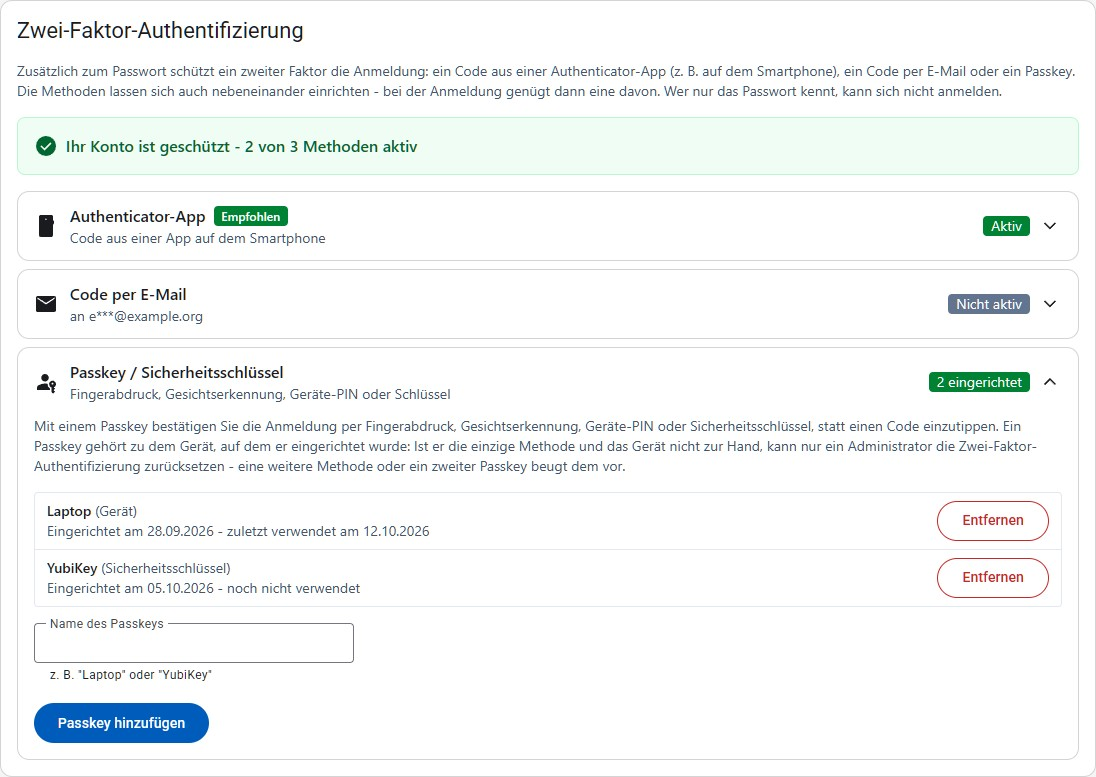
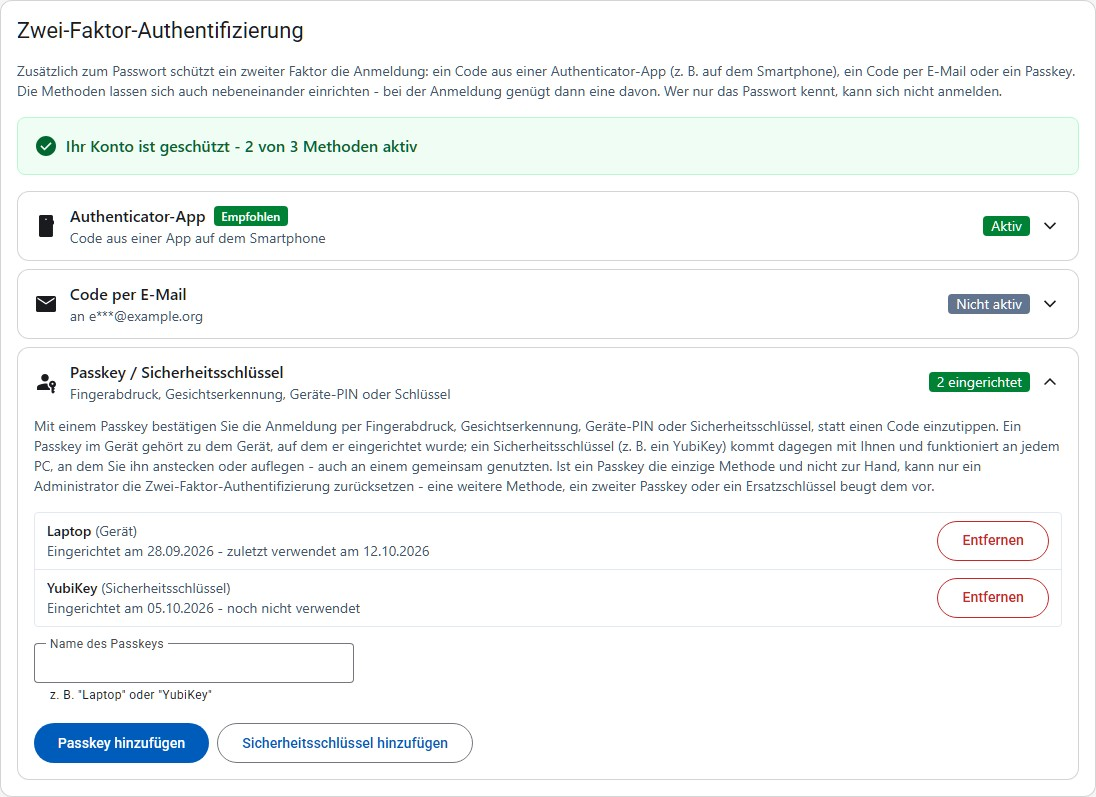
feat(auth): add a security key directly from the two-factor page
A "Sicherheitsschlüssel hinzufügen" button asks the browser for a key over
USB or NFC (WebAuthn hints plus a cross-platform attachment) instead of the
device's own passkey or a phone first. The passkey intro and user guide no
longer say a passkey is unsuitable for shared PCs - a security key is exactly
the one that works there - and recommend a spare key.

Refs #3862

diff --git a/frontend/src/main/webapp/src/app/modules/user/components/user-mfa/user-mfa.component.html b/frontend/src/main/webapp/src/app/modules/user/components/user-mfa/user-mfa.component.html
@@ -251,10 +251,11 @@
                testid="mfaRowPanel-passkey" [hidden]="!isExpanded('passkey')">
             <p class="text-sm text-slate-600 mb-4" testid="mfaPasskeyIntro">
               Mit einem Passkey bestätigen Sie die Anmeldung per Fingerabdruck, Gesichtserkennung, Geräte-PIN oder
-              Sicherheitsschlüssel, statt einen Code einzutippen. Ein Passkey gehört zu dem Gerät, auf dem er
-              eingerichtet wurde: Ist er die einzige Methode und das Gerät nicht zur Hand, kann nur ein Administrator
-              die Zwei-Faktor-Authentifizierung zurücksetzen - eine weitere Methode oder ein zweiter Passkey beugt dem
-              vor.
+              Sicherheitsschlüssel, statt einen Code einzutippen. Ein Passkey im Gerät gehört zu dem Gerät, auf dem er
+              eingerichtet wurde; ein Sicherheitsschlüssel (z. B. ein YubiKey) kommt dagegen mit Ihnen und funktioniert
+              an jedem PC, an dem Sie ihn anstecken oder auflegen - auch an einem gemeinsam genutzten. Ist ein Passkey die
+              einzige Methode und nicht zur Hand, kann nur ein Administrator die Zwei-Faktor-Authentifizierung
+              zurücksetzen - eine weitere Methode, ein zweiter Passkey oder ein Ersatzschlüssel beugt dem vor.
             </p>
 
             @if (passkeys().length > 0) {
@@ -292,9 +293,9 @@
                 Dieser Browser unterstützt keine Passkeys.
               </p>
             } @else {
-              <form (submit)="addPasskey($event)" novalidate class="flex flex-col gap-2 max-w-xs">
+              <form (submit)="addPasskey($event)" novalidate class="flex flex-col gap-2">
                 <!-- the hint sits below the field's own box, so the field keeps its distance to the next one itself -->
-                <mat-form-field class="mb-3">
+                <mat-form-field class="mb-3 max-w-xs">
                   <mat-label>Name des Passkeys</mat-label>
                   <input [formField]="setupForm.passkeyName" matInput testid="mfaPasskeyName" type="text" autocomplete="off">
                   <mat-hint>z. B. "Laptop" oder "YubiKey"</mat-hint>
@@ -302,9 +303,13 @@
                     <mat-error>{{ message }}</mat-error>
                   }
                 </mat-form-field>
-                <div>
+                <div class="flex flex-wrap gap-2">
                   <button testid="mfaPasskeyAddButton" matButton="filled" type="submit" [disabled]="working()">
                     Passkey hinzufügen
+                  </button>
+                  <button testid="mfaSecurityKeyAddButton" matButton="outlined" type="button" [disabled]="working()"
+                          (click)="addPasskey($event, true)">
+                    Sicherheitsschlüssel hinzufügen
                   </button>
                 </div>
               </form>

diff --git a/frontend/src/main/webapp/src/app/modules/user/components/user-mfa/user-mfa.component.ts b/frontend/src/main/webapp/src/app/modules/user/components/user-mfa/user-mfa.component.ts
@@ -158,8 +158,9 @@ export class UserMfaComponent {
         + 'Administrator die Zwei-Faktor-Authentifizierung zurücksetzen. Eine zweite Methode wird empfohlen.';
     }
     return this.passkeys().length === 1
-      ? 'Nur ein Passkey ist eingerichtet - ist das Gerät nicht zur Hand, kann nur ein Administrator die '
-      + 'Zwei-Faktor-Authentifizierung zurücksetzen. Ein zweiter Passkey oder eine weitere Methode wird empfohlen.'
+      ? 'Nur ein Passkey ist eingerichtet - ist er nicht zur Hand, kann nur ein Administrator die '
+      + 'Zwei-Faktor-Authentifizierung zurücksetzen. Ein zweiter Passkey (etwa ein Ersatzschlüssel) oder eine weitere '
+      + 'Methode wird empfohlen.'
       : null;
   });
 
@@ -299,9 +300,10 @@ export class UserMfaComponent {
   /**
    * Adds a passkey: the backend hands out the options, the browser lets the device create the key, and the backend
    * stores it once the proof of an existing method checks out. A prompt the user dismisses is no error of the
-   * application, so it is told apart from a refusal by the backend.
+   * application, so it is told apart from a refusal by the backend. With `securityKey`, the browser goes straight to
+   * a key plugged in or held against the device (see `PasskeyService.create`).
    */
-  addPasskey(event: Event) {
+  addPasskey(event: Event, securityKey = false) {
     event.preventDefault();
     if (!this.validate('passkeyName')) {
       return;
@@ -309,7 +311,7 @@ export class UserMfaComponent {
     const name = this.formModel().passkeyName.trim();
     return this.change('Passkey hinzufügen', 'Hinzufügen', async proof => {
       const {options} = await firstValueFrom(this.mfaApiService.setupPasskey(SUPPRESS_ERROR_TOAST_CONTEXT));
-      const credential = await this.passkeyService.create(options);
+      const credential = await this.passkeyService.create(options, securityKey);
       await firstValueFrom(this.mfaApiService.enablePasskey(credential, name, proof, SUPPRESS_ERROR_TOAST_CONTEXT));
       this.toastr.success('Passkey hinzugefügt!');
     }, {

diff --git a/frontend/src/main/webapp/src/app/common/security/passkey.service.ts b/frontend/src/main/webapp/src/app/common/security/passkey.service.ts
@@ -17,9 +17,17 @@ export class PasskeyService {
       && typeof PublicKeyCredential.parseRequestOptionsFromJSON === 'function';
   }
 
-  /** Creates a passkey for the registration options; rejects when the user cancels or the authenticator refuses. */
-  async create(options: PasskeyOptions): Promise<PasskeyCredential> {
-    const publicKey = PublicKeyCredential.parseCreationOptionsFromJSON(options as unknown as PublicKeyCredentialCreationOptionsJSON);
+  /**
+   * Creates a passkey for the registration options; rejects when the user cancels or the authenticator refuses.
+   *
+   * With `securityKey`, the browser is asked to go straight to a key plugged in or held against the device instead of
+   * offering the device's own passkey or a phone first: `hints` for the browsers that read it (WebAuthn level 3), and
+   * a cross-platform attachment for the others. Neither is something the backend checks - the passkey it gets is an
+   * ordinary one, told apart afterwards only by the transports it reports.
+   */
+  async create(options: PasskeyOptions, securityKey = false): Promise<PasskeyCredential> {
+    const json = securityKey ? withSecurityKeyPreference(options) : options;
+    const publicKey = PublicKeyCredential.parseCreationOptionsFromJSON(json as unknown as PublicKeyCredentialCreationOptionsJSON);
     return this.toJson(await navigator.credentials.create({publicKey}));
   }
 
@@ -35,6 +43,15 @@ export class PasskeyService {
     }
     return (credential as PublicKeyCredential).toJSON();
   }
+}
+
+function withSecurityKeyPreference(options: PasskeyOptions): PasskeyOptions {
+  const authenticatorSelection = (options['authenticatorSelection'] ?? {}) as Record<string, unknown>;
+  return {
+    ...options,
+    hints: ['security-key'],
+    authenticatorSelection: {...authenticatorSelection, authenticatorAttachment: 'cross-platform'}
+  };
 }
 
 /** WebAuthn options in their JSON form, as the backend sends them - opaque to everything but the browser. */

diff --git a/frontend/src/main/webapp/cypress/e2e/mfa.cy.ts b/frontend/src/main/webapp/cypress/e2e/mfa.cy.ts
@@ -803,6 +803,33 @@ describe('Two-factor authentication', () => {
       });
     });
 
+    it('a security key is added from its own button and listed as one', () => {
+      // a key plugged in over USB, next to the one built into the device - the button has to pick this one
+      devTools('WebAuthn.addVirtualAuthenticator', {
+        options: {
+          protocol: 'ctap2',
+          transport: 'usb',
+          hasResidentKey: false,
+          hasUserVerification: true,
+          isUserVerified: true,
+          automaticPresenceSimulation: true
+        }
+      });
+
+      createUser().then(user => {
+        cy.login(user.username, user.password);
+        cy.visit('/konto/zwei-faktor');
+        openRow('passkey');
+        cy.byTestId('mfaPasskeyName').type('YubiKey');
+        cy.byTestId('mfaSecurityKeyAddButton').click();
+        cy.get('.toast-message').should('be.visible').and('contain.text', 'Passkey hinzugefügt');
+
+        cy.byTestId('mfaPasskeyItem').should('contain.text', 'YubiKey');
+        cy.byTestId('mfaPasskeyKind').should('contain.text', '(Sicherheitsschlüssel)');
+        cy.checkAccessibility('main');
+      });
+    });
+
     it('the code still completes the login of a user who has a passkey', () => {
       userWithEmailMethod().then(user => {
         cy.visit('/konto/zwei-faktor');

diff --git a/frontend/src/main/webapp/src/app/modules/user/components/user-mfa/user-mfa.component.spec.ts b/frontend/src/main/webapp/src/app/modules/user/components/user-mfa/user-mfa.component.spec.ts
@@ -480,7 +480,19 @@ describe('UserMfaComponent', () => {
 
       expect(dialog.open).not.toHaveBeenCalled();
       expect(mfaApiService.enablePasskey).toHaveBeenCalledWith(credential, 'Laptop', null, expect.anything());
+      expect(passkeyService.create).toHaveBeenCalledWith({challenge: 'c'}, false);
       expect(passkeyService.get).not.toHaveBeenCalled();
+    });
+
+    it('asks the browser for a security key from its own button', async () => {
+      const fixture = await create();
+
+      type(fixture, 'passkeyName', 'YubiKey');
+      element(fixture, 'mfaSecurityKeyAddButton')!.click();
+      await fixture.whenStable();
+
+      expect(passkeyService.create).toHaveBeenCalledWith({challenge: 'c'}, true);
+      expect(mfaApiService.enablePasskey).toHaveBeenCalledWith(credential, 'YubiKey', null, expect.anything());
     });
 
     it('says so when the first passkey is not created', async () => {

diff --git a/frontend/src/main/webapp/src/app/common/security/passkey.service.spec.ts b/frontend/src/main/webapp/src/app/common/security/passkey.service.spec.ts
@@ -42,6 +42,22 @@ describe('PasskeyService', () => {
     expect(result).toEqual({id: 'abc', type: 'public-key'});
   });
 
+  it('asks for a security key by hint and attachment, keeping the rest of the options', async () => {
+    stubBrowserSupport();
+
+    await service.create({challenge: 'c', authenticatorSelection: {residentKey: 'discouraged'}}, true);
+
+    expect(credentials.create).toHaveBeenCalledWith({
+      publicKey: {
+        parsedCreation: {
+          challenge: 'c',
+          hints: ['security-key'],
+          authenticatorSelection: {residentKey: 'discouraged', authenticatorAttachment: 'cross-platform'}
+        }
+      }
+    });
+  });
+
   it('asks a passkey for an assertion from the options the browser parsed, and returns it as JSON', async () => {
     stubBrowserSupport();
 

diff --git a/docs/userguide/README.md b/docs/userguide/README.md
@@ -67,7 +67,7 @@ Darunter steht jede Methode in einer eigenen Zeile mit ihrem Status – **Nicht 
 
 - **Authenticator-App** (z. B. auf dem Smartphone): Zum Einrichten wählt man **Einrichten**, es erscheint ein QR-Code, den man mit der App scannt (wer noch keine App hat, findet über die Links **Google Play** und **App Store** darüber den kostenlosen Google Authenticator - jede App für zeitbasierte Codes funktioniert); kann die App nicht scannen, gibt man stattdessen den darunter angezeigten Schlüssel von Hand ein. Danach gibt man den 6-stelligen Code aus der App ein und wählt **Aktivieren** – erst mit einem gültigen Code ist die Methode eingeschaltet, womit auch geprüft ist, dass die App richtig eingerichtet wurde. Mit **Abbrechen** verwirft man eine begonnene Einrichtung.
 - **Code per E-Mail**: Die Zeile nennt die E-Mail-Adresse des Benutzerkontos, an die der Code geht, teilweise verdeckt (z. B. "an m\*\*\*@example.at"); aufgeklappt steht sie vollständig da (ändern lässt sie sich unter **Meine Daten**). Zum Einrichten wählt man **Einrichten**; ein 6-stelliger Code wird an diese Adresse gesendet (mit **Code erneut senden** lässt er sich nach kurzer Wartezeit neu anfordern). Man gibt ihn ein und wählt **Aktivieren**. Der Code gilt nur kurz und nur einmal. Ist für das Benutzerkonto keine E-Mail-Adresse hinterlegt, verweist die Zeile auf **Meine Daten**, bis eine eingetragen ist. Steht auf dem System kein E-Mail-Versand zur Verfügung, zeigt die Zeile **Nicht verfügbar**, und diese Methode lässt sich nicht einrichten.
-- **Passkey / Sicherheitsschlüssel**: Damit bestätigt man die Anmeldung per Fingerabdruck, Gesichtserkennung, Geräte-PIN oder Sicherheitsschlüssel (z. B. einem YubiKey), statt einen Code einzutippen. Ein Passkey gehört zu dem Gerät (oder dem Passwort-Manager), auf dem er eingerichtet wurde – er eignet sich daher für das eigene Notebook oder Smartphone, nicht für einen gemeinsam genutzten PC. Zum Einrichten gibt man dem Passkey einen **Namen** (z. B. das Gerät) und wählt **Passkey hinzufügen**; der Browser fragt dann nach dem Fingerabdruck, der PIN oder dem Sicherheitsschlüssel. Die Liste zeigt jeden eingerichteten Passkey mit seinem Namen, der Art (**Gerät** für einen im Gerät eingebauten Passkey, **Sicherheitsschlüssel** für einen eigenen Schlüssel zum Anstecken oder Auflegen), dem Datum der Einrichtung und wann er zuletzt verwendet wurde; es lassen sich mehrere einrichten, etwa einer je Gerät. **Ist ein Passkey die einzige Methode und das Gerät nicht zur Hand, ist keine Anmeldung möglich**, bis ein Administrator die Zwei-Faktor-Authentifizierung zurücksetzt (siehe [Benutzer](benutzer.md)) – eine weitere Methode oder ein zweiter Passkey auf einem anderen Gerät beugt dem vor. Unterstützt der Browser keine Passkeys, steht das in der Zeile, und es lässt sich dort keiner hinzufügen.
+- **Passkey / Sicherheitsschlüssel**: Damit bestätigt man die Anmeldung per Fingerabdruck, Gesichtserkennung, Geräte-PIN oder Sicherheitsschlüssel (z. B. einem YubiKey), statt einen Code einzutippen. Ein Passkey im Gerät gehört zu dem Gerät (oder dem Passwort-Manager), auf dem er eingerichtet wurde – er eignet sich daher für das eigene Notebook oder Smartphone, nicht für einen gemeinsam genutzten PC. Ein **Sicherheitsschlüssel** ist dagegen ein kleiner Schlüssel für den Schlüsselbund, den man an jedem PC per USB ansteckt oder an Smartphone bzw. Tablet per NFC auflegt – er eignet sich gerade für gemeinsam genutzte PCs und braucht weder Smartphone noch Internetverbindung. Zum Einrichten gibt man dem Passkey einen **Namen** (z. B. das Gerät oder "YubiKey") und wählt **Passkey hinzufügen** für einen Passkey im Gerät oder **Sicherheitsschlüssel hinzufügen** für einen eigenen Schlüssel; der Browser fragt dann nach dem Fingerabdruck, der PIN oder dem Sicherheitsschlüssel (den Schlüssel steckt man dann an bzw. legt ihn auf und berührt ihn; wurde am Schlüssel eine PIN festgelegt, fragt der Browser auch nach ihr). Unter Windows erscheint dafür ein eigenes Fenster "Windows-Sicherheit", in dem man gegebenenfalls **Sicherheitsschlüssel** wählt. Die Liste zeigt jeden eingerichteten Passkey mit seinem Namen, der Art (**Gerät** für einen im Gerät eingebauten Passkey, **Sicherheitsschlüssel** für einen eigenen Schlüssel zum Anstecken oder Auflegen), dem Datum der Einrichtung und wann er zuletzt verwendet wurde; es lassen sich mehrere einrichten, etwa einer je Gerät. **Ist ein Passkey die einzige Methode und das Gerät nicht zur Hand, ist keine Anmeldung möglich**, bis ein Administrator die Zwei-Faktor-Authentifizierung zurücksetzt (siehe [Benutzer](benutzer.md)) – eine weitere Methode, ein zweiter Passkey auf einem anderen Gerät oder ein **Ersatzschlüssel** (ein zweiter Sicherheitsschlüssel, der sicher aufbewahrt wird) beugt dem vor. Wer die Authenticator-App lieber auf einem YubiKey hat, kann die Codes auch mit der App "Yubico Authenticator" erzeugen und den Schlüssel so als **Authenticator-App** einrichten. Unterstützt der Browser keine Passkeys, steht das in der Zeile, und es lässt sich dort keiner hinzufügen.
 
 ![Zwei-Faktor-Authentifizierung: noch nichts eingerichtet](images/konto-zwei-faktor.jpg)
 

diff --git a/CHANGELOG.md b/CHANGELOG.md
@@ -3,6 +3,7 @@
 Diese Datei dokumentiert die nennenswerten Änderungen an Tafel Admin auf Deutsch, kurz und knapp gehalten. Jede neue Funktion oder Korrektur, die für Anwender:innen sichtbar ist, ergänzt hier einen Eintrag unter `## [Unreleased]`. Die Release-Pipeline übernimmt neu hinzugekommene Zeilen automatisch in die Release-Notes auf GitHub (siehe `release.yml` und CLAUDE.md, Abschnitt "Changelog").
 Jeder Eintrag ist eine einzelne, nicht umgebrochene Zeile, die mit `- ` beginnt - die Release-Pipeline erkennt einen neuen Changelog-Eintrag genau daran.
 ## [Unreleased]
+- Mein Konto → Zwei-Faktor-Authentifizierung: Ein Sicherheitsschlüssel (z. B. ein YubiKey) lässt sich jetzt über "Sicherheitsschlüssel hinzufügen" direkt einrichten, ohne dass der Browser zuerst den Passkey im Gerät oder ein Smartphone anbietet; der Hinweistext erklärt, dass ein Sicherheitsschlüssel auch an gemeinsam genutzten PCs funktioniert, und empfiehlt einen Ersatzschlüssel.
 - Die Sperre eines Kunden lässt sich jetzt über "Weitere Aktionen → Sperre bearbeiten" ändern (Kategorie, Sperrgrund und Enddatum), ohne den Kunden zuerst entsperren zu müssen; Zeitpunkt und Benutzer der ursprünglichen Sperrung bleiben dabei erhalten.
 - Beim Sperren eines Kunden ist die Kategorie nicht mehr mit "Sonstiger Grund" vorausgewählt, sondern muss bewusst gewählt werden; bestehende Sperren ohne Kategorie erhalten einmalig "Sonstiger Grund".
 
